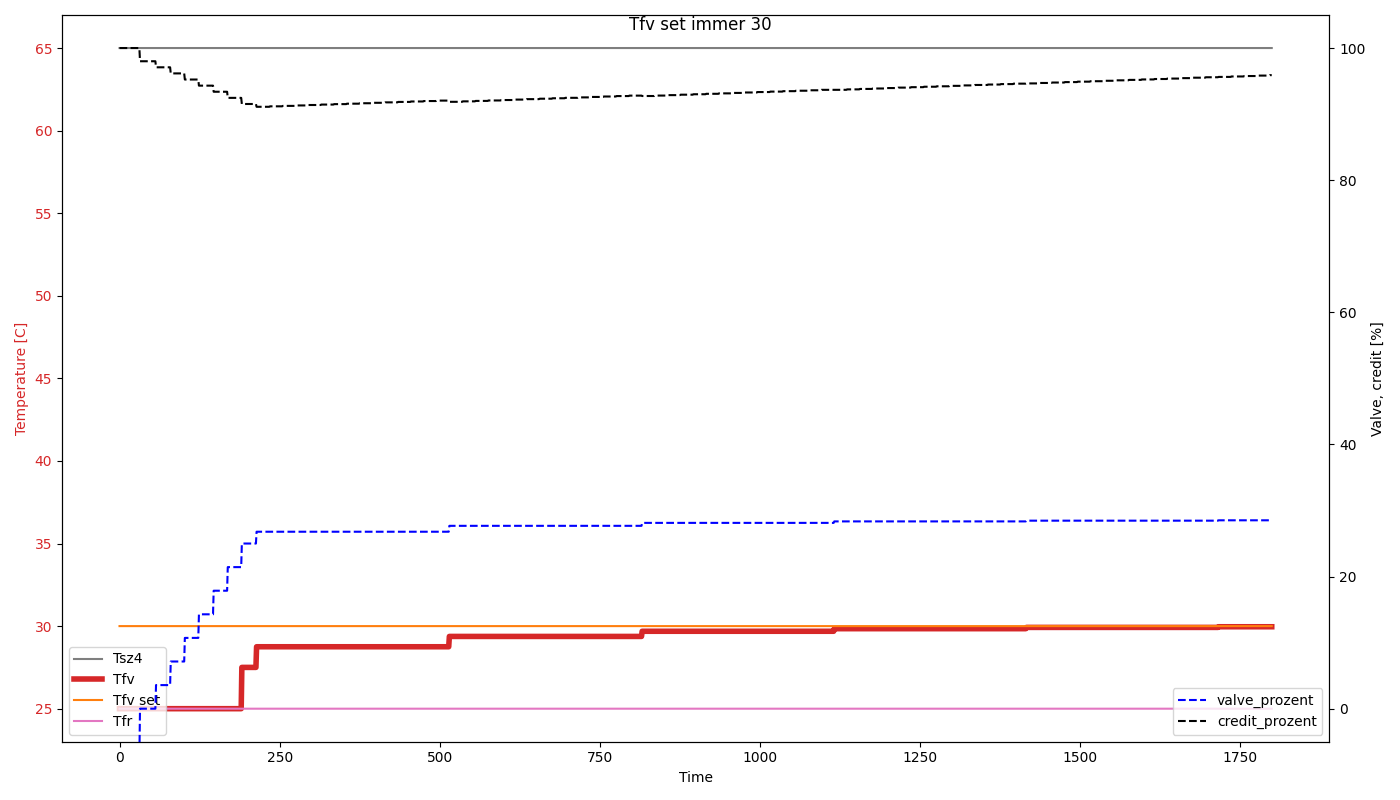
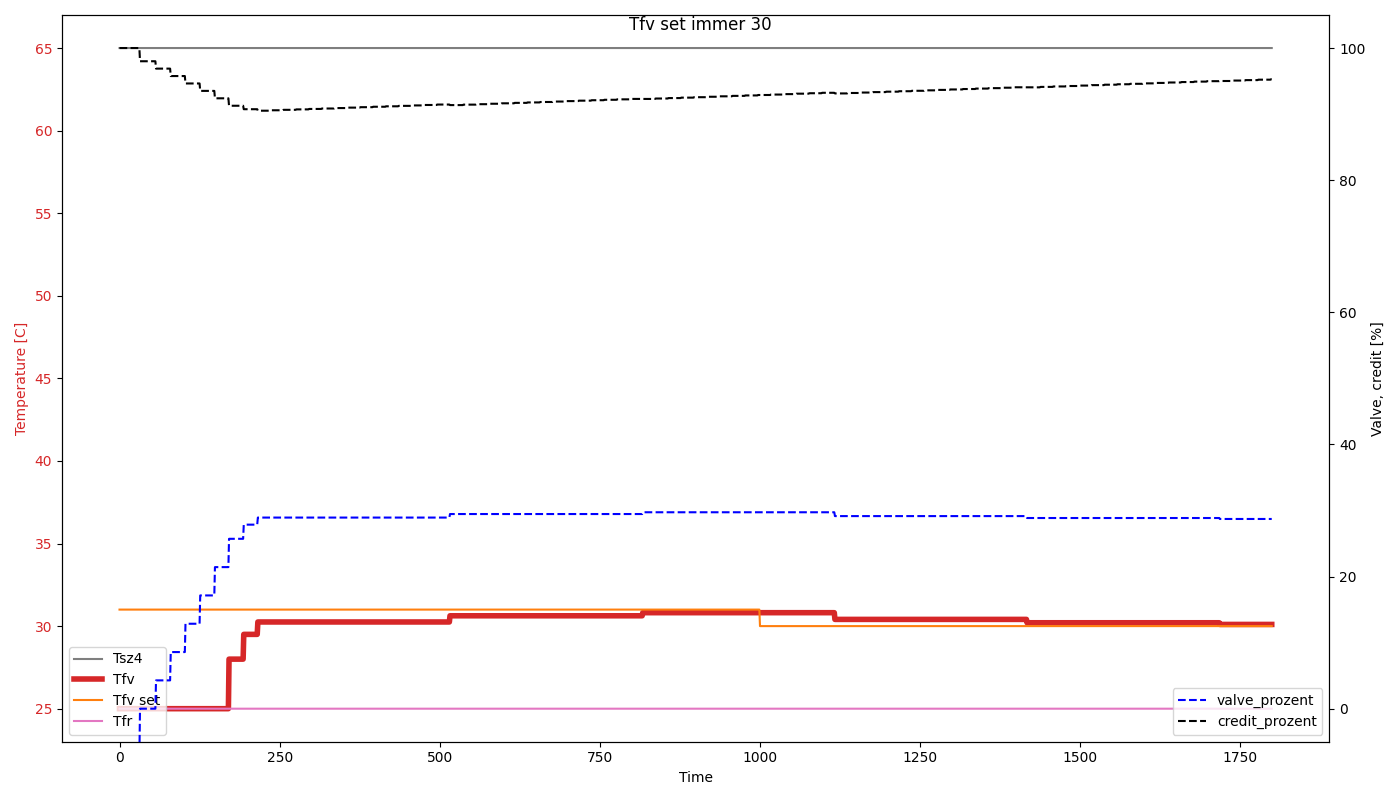
Manuelle Tests

diff --git a/steuerung_automatik/software-zentral/zentral/controller_mischventil_test.py b/steuerung_automatik/software-zentral/zentral/controller_mischventil_test.py
@@ -217,7 +217,7 @@ _TESTPARAMS = [
     ),
     Ttestparam(
         "Tfv set immer 30",
-        Tfv_set_C=30.0,
+        Tfv_set_C=31.0,
     ),
 ]
 

diff --git a/steuerung_automatik/software-zentral/doc/manual_test_modbus_zentral.md b/steuerung_automatik/software-zentral/doc/manual_test_modbus_zentral.md
@@ -1,0 +1,70 @@
+# Modbus Kommunikation innerhalb des Heizungsraumes
+
+* Ziel
+
+  Wie verhält sich die Applikation bei Kommunikationsfehlern
+
+* Betroffene Slaves
+  * Mischventil
+  * DAQ
+  * Relay
+  * Oekofen
+
+## Modbus Übertragungsfehler
+
+### Modbus Unterbruch
+
+* Precondition
+
+  * Applikation läuft
+
+* Stimuli
+
+  * a) `ScenarioMischventilModbusNoResponseReceived` duration_s=20s
+  * b) Mischventil: eines von:
+    * Modbus ausstecken
+    * Modbus kurzschliessen
+    * Irgend einen betroffenen Modbus Slave ausschalten
+
+
+* Expected Response
+
+  * journalctl --lines=100 --follow --unit heizung-app.service
+
+    ```
+    ...WARNING - Mischventil: Modbus Error: ScenarioMischventilModbusNoResponseReceived
+
+    ...WARNING - Watchdog modbus-'mischventil' has expired (14.344919553997897s > 10.0s)!
+    ```
+
+  * Applikation läuft weiter
+    * Nach 10 s (See MODBUS_ZENTRAL_MAX_INACTIVITY_S):
+      * Grafana: `hsm_zentral` wechselt in `state_error`
+      * Relais öffnen (anlog Stromausfall)
+        * 0: automatik,  # TODO: Korrekten Namen einsetzen
+        * 6: pumpe_ein,  # TODO: Korrekten Namen einsetzen
+        * 7: relais_7_automatik,
+
+* Tests
+  * 2024-07-26: success
+
+### Modbus Unterbruch aufgehoben
+
+* Stimuli
+  
+  * Modbus Verbindung wieder herstellen
+
+* Expected Response
+
+  * Nach 60s (STATE_ERROR_RECOVER_S) terminiert die Applikation und wird nach weiteren 60s (RestartSec=60) vom Service neu gestartet
+
+    * journalctl --lines=100 --follow --unit heizung-app.service
+      ```
+      ... ERROR - No SignalError occured during 61.253626445999544s. Exit the application, the service will restart it.
+
+      ... heizung-app.service: Main process exited, code=exited, status=42
+
+      ... systemd[1]: Started heizung-app.service - Heizung app
+      ```
+* Tests
+  * 2024-07-26: success

diff --git a/steuerung_automatik/software-zentral/doc/manual_test_dezentral_ds18fatal.md b/steuerung_automatik/software-zentral/doc/manual_test_dezentral_ds18fatal.md
@@ -1,0 +1,65 @@
+# Zustand der ds18 Temperatur Sensoren
+
+* Ziel
+
+  Wie verhält sich die Applikation bei fehlerhaften Sensoren.
+
+* Hier geht es um fatale Fehler
+  * Zwei Sensorpaare liefern stark unterschiedliche Temperaturen
+  * Ein Sensorpaar fällt aus, also keine ONEWIRE Kommunikation
+
+## Stark unterschiedliche Temperaturen des Sensorpaars
+
+### Fehler einfügen
+
+* Precondition
+
+  * Applikation läuft
+
+* Stimuli
+
+  * a) `ScenarioHausSpTemperatureDiscrepancy`
+
+    * Haus: 13
+    * ds18_index: unten_a
+    * discrepancy_C: 20
+    * duration_s: 120
+
+  * b) Einen Sensor physikalisch erwärmen/abkühlen
+
+* Expected Response
+
+  * Grafana `Temperaturen Speicher nur Mitte`: Keine Datenpunkte mehr
+  * Grafana `DS18 errors`: Neu erscheint dieses Sensorpaar mit 10C (DS18_REDUNDANCY_ERROR_DIFF_C)
+  * pcb_dezentral: blinkt weiss (Fehler)
+  * Grafana `Dezentral Hsm`: hsm_state `ok` -> `error`
+  * Grafana `Dezentral Valve open (simulation)`: xx -> open
+
+### Fehler entfernen
+
+* Stimuli
+
+  * a) `ScenarioClearScenarios`
+  * b) Einen Sensor physikalisch erwärmen/abkühlen
+
+* Expected Response
+  * Selbstheilend: Alle obigen Effekte verschwinden wieder
+
+## Sensorpaar defekt
+
+### Fehler einfügen
+
+* Precondition
+
+  * Applikation läuft
+
+* Stimuli
+  * pcb_dezentral: Alle dx18 ausstecken
+
+* Expected Response
+  * Wie Test oben, aber:
+  * Grafana `DS18 errors`: Neu erscheint dieses Sensorpaar mit 20C (DS18_REDUNDANCY_FATAL_C)
+
+### Fehler entfernen
+
+  * Wie Test oben

diff --git a/steuerung_automatik/software-zentral/doc/manual_test_modbus_dezentral.md b/steuerung_automatik/software-zentral/doc/manual_test_modbus_dezentral.md
@@ -1,0 +1,52 @@
+# Fehler Modbus Dezentral
+
+Fehler bei der Kommunikation mit den Häusern.
+
+* Ziel
+
+  Wie verhält sich die Applikation falls ein Haus nicht via Modbus erreichbar ist?
+
+
+## Modbus fällt aus
+
+* Precondition
+
+  * Applikation läuft
+
+* Stimuli
+
+  * a) `ScenarioHausModbusNoResponseReceived`
+
+    * Haus: 13
+    * duration_s: 120
+
+  * b) Haus ausstecken
+
+* Expected Response
+
+  * Grafana `Dezentral Modbus History Percent OK`: 100% -> 0%
+  * Grafana `Dezentral Hsm`: hsm_state `ok` -> `error`
+  * Grafana `Dezentral Valve open (simulation)`: Datenpunkte fehlen
+  * pcb_dezentral: Ventil öffnet (nach 10min MODBUS_WATCHDOG_MS und reboot)
+  * Der controller berücksichtigt dieses Haus nicht mehr. Dies muss mit dem Debugger verifiziert werden (`if not hsm_dezentral.is_state(hsm_dezentral.state_ok):`)
+
+* Tests
+  * 2024-07-28: success
+
+## Modbus funktioniert wieder
+
+* Stimuli
+
+  * a) `ScenarioClearScenarios`
+  * b) Haus einstecken
+
+* Expected Response
+
+  * Grafana `Dezentral Modbus History Percent OK`: 0% -> 100%
+  * Grafana `Dezentral Hsm`: hsm_state `error` -> `ok`
+  * Grafana `Dezentral Valve open (simulation)` Datenpunkte wieder vorhanden
+  * pcb_dezentral: Ventil schliesst (falls genug Wärme vorhanden)
+  * Der controller berücksichtigt dieses Haus wieder.
+
+* Tests
+  * 2024-07-28: success

diff --git a/steuerung_automatik/software-zentral/doc/readme_influxdb.md b/steuerung_automatik/software-zentral/doc/readme_influxdb.md
@@ -10,47 +10,3 @@ https://github.com/influxdata/influxdb-client-python
 https://github.com/influxdata/influxdb-client-python/blob/master/examples/asynchronous.py
 
 
-
-https://github.com/nanophysics/pico_nano_monitor/blob/main/influxdb_structure.py
-
-```python
-measurementExample = [
-    {
-        "measurement": "pico_emil",  # a measurement has one 'measurement'. It is the name of the pcb.
-        "fields": {
-            "temperature_C": "23.5",
-            "humidity_pRH": "88.2",
-        },
-        "tags": {
-            "setup": "zeus",
-            "room": "B15",
-            "position": "hintenLinks",
-            "user": "pmaerki",
-        },
-    },
-]
-``` 
-
-
-# Struktur für Heizung 2023
-"measurement": "Heizung"
-
-        dict_tags = {
-            "position": "haus_08",  # "zentral"
-            "etappe": "bochs",  # "puent"
-            "haus": 8,
-        }
-
-        # Fields für Dezentral
-        # sp_oben_temperatureC
-        # sp_open_errorC
-        # sp_mitte_temperatureC
-        # sp_mitte_errorC
-        # sp_unten_temperatureC
-        # sp_unten_errorC
-        # ventil_open
-
-        # Fields fuer Zentral
-        # Tbv1_C
-        # energy_valve_open
-

diff --git a/steuerung_automatik/software-zentral/doc/manual_test_internet.md b/steuerung_automatik/software-zentral/doc/manual_test_internet.md
@@ -1,0 +1,51 @@
+# Verbindung zum Internet verloren
+
+## Internet disconnected
+
+### Disconnect
+
+* Precondition
+
+  * Applikation läuft
+  * Verbindung zum Internet ok
+
+* Stimuli
+
+  * Internet **hinter** Switch ausstecken: Der Raspberry Pi soll die Änderung **nicht** mitbekommen.
+  * 2 Min warten, da jede Minute ein Datenpunkt (siehe ASYNCIO_TASK_HSM_DEZENTRAL_S)
+
+* Expected Response
+
+  * Applikation läuft weiter:
+
+    ```bash
+    journalctl --lines=100 --follow --unit heizung-app.service | grep 'Failed to resolve'
+    ```
+    
+    output 
+
+    ```
+    ...urllib3.connectionpool ... Failed to resolve 'www.maerki.com'...
+    ```
+
+  * Grafana: 'Temperaturen Speicher' werden nicht mehr aktualisiert
+
+* Tests
+  * 2024-07-26: success
+
+### Reconnect
+
+* Stimuli
+  
+  * Internet wieder verbinden
+
+* Expected Response
+
+  * Einträge in Grafana erscheinen wieder. Keine Datenlücke.
+
+* Tests
+  * 2024-07-26: success
+
+## maerki.com down
+
+...

diff --git a/steuerung_automatik/software-zentral/doc/manual_test_dezentral_ds18broken.md b/steuerung_automatik/software-zentral/doc/manual_test_dezentral_ds18broken.md
@@ -1,0 +1,28 @@
+# Zustand der ds18 Temperatur Sensoren
+
+* Ziel
+
+  Wie verhält sich die Applikation bei fehlerhaften Sensoren.
+
+* Hier geht es um Fehler, die durch Redundanz entschärft werden
+
+## Sensorpaar fällt aus
+
+* Precondition
+
+  * Applikation läuft
+
+* Stimuli
+
+  * a) `ScenarioHausSpDs18PairDisconnected`
+    * Haus: 13
+    * ds18_index: mitte
+    * ds18_ok_percent: 15%
+    * duration_s: 120s
+
+  * b) Sensorpaar ausstecken
+
+* Expected Response
+
+  * Grafana `Temperaturen Speicher nur Mitte`: Keine Datenpunkte mehr
+  * Grafana `DS18 errors`: Neu erscheint dieses Sensorpaar
